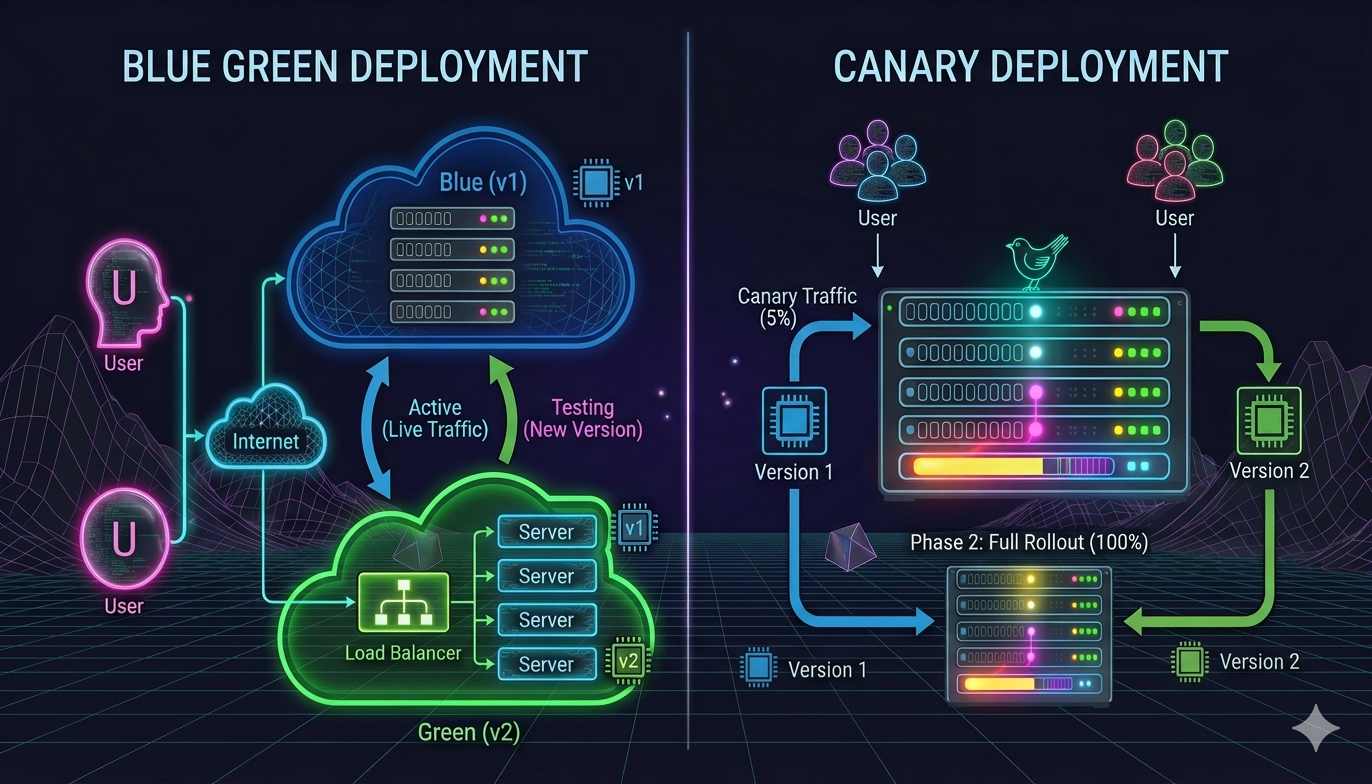
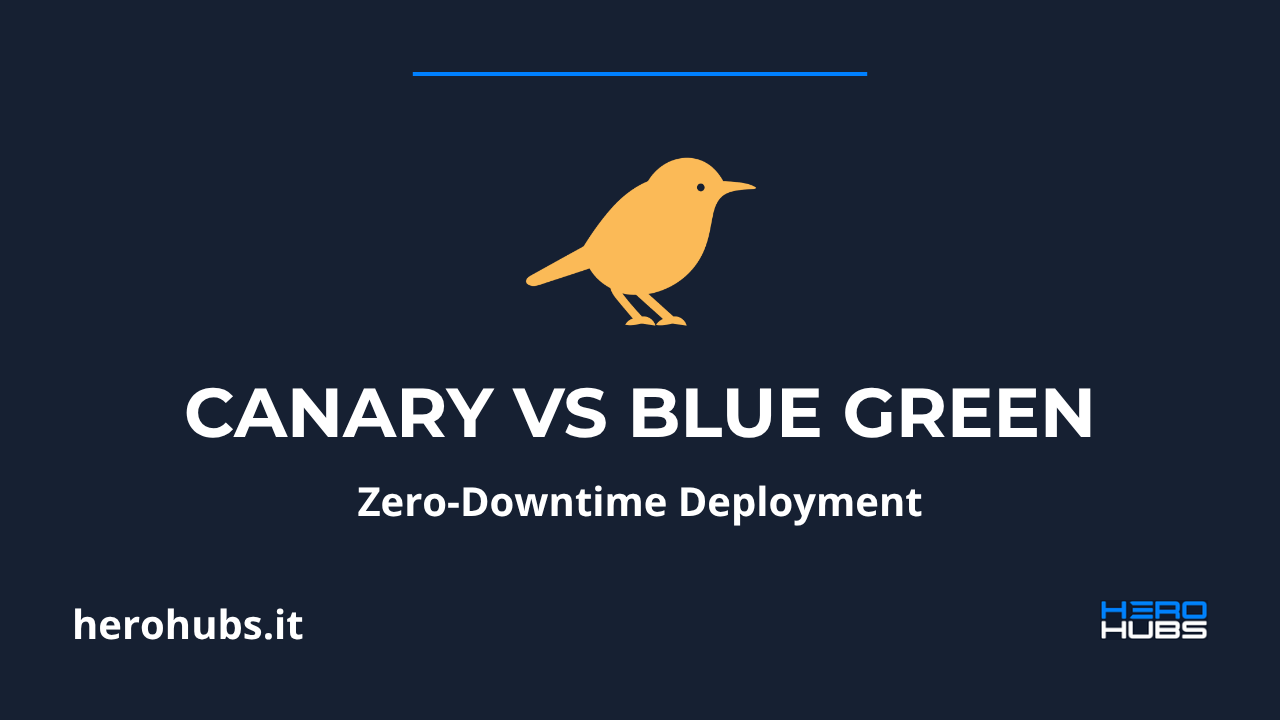
chore: regenerate hero images for articles 11-44
Replace jpg covers with png exports from the updated Canva designs
for articles 11-41, 43 and 44, and update the image path in both
it and en frontmatter.

diff --git a/src/content/posts/en/11.md b/src/content/posts/en/11.md
@@ -3,7 +3,7 @@ title: 'Successfully managing a software project'
 meta_title: 'Successfully managing a software project'
 description: 'A practical guide to effective software project management: planning, milestones, execution, and tips to avoid common mistakes and achieve project success.'
 date: 2025-03-13T05:00:00Z
-image: /images/posts/post-11.jpg
+image: /images/posts/post-11.png
 categories:
   - Projects
 draft: false

diff --git a/src/content/posts/en/12.md b/src/content/posts/en/12.md
@@ -3,7 +3,7 @@ title: 'Why trunk-based development dominates Git?'
 meta_title: 'Why trunk-based development dominates Git?'
 description: 'Discover why trunk-based development is the preferred Git branching strategy: benefits, comparison with GitFlow and GitHub Flow, and how it supports DevOps, CI/CD, and fast releases while maintaining code quality.'
 date: 2025-04-13T05:00:00Z
-image: /images/posts/post-12.jpg
+image: /images/posts/post-12.png
 categories:
   - Development
 draft: false

diff --git a/src/content/posts/en/13.md b/src/content/posts/en/13.md
@@ -3,7 +3,7 @@ title: 'The importance of soft skills'
 meta_title: 'The importance of soft skills'
 description: 'Learn why soft skills are essential in tech: communication, collaboration, problem solving, and adaptability for successful teams and professional growth.'
 date: 2025-04-13T05:00:00Z
-image: /images/posts/post-13.jpg
+image: /images/posts/post-13.png
 categories:
   - Projects
 draft: false

diff --git a/src/content/posts/en/14.md b/src/content/posts/en/14.md
@@ -3,7 +3,7 @@ title: 'Effective meetings: how to make them really work'
 meta_title: 'Effective meetings: how to make them really work'
 description: 'Discover how to organize truly effective meetings: strategies, practical tips, and best practices for productive, engaging, and results-oriented meetings in modern teams.'
 date: 2025-04-13T05:00:00Z
-image: /images/posts/post-14.jpg
+image: /images/posts/post-14.png
 categories:
   - Projects
 draft: false

diff --git a/src/content/posts/en/15.md b/src/content/posts/en/15.md
@@ -3,7 +3,7 @@ title: 'The project management triangle'
 meta_title: 'The project management triangle'
 description: 'Understand the project management triangle: how to balance scope, time, quality, and cost in complex projects. Strategies, trade-offs, and tips for effective project delivery.'
 date: 2025-04-13T05:00:00Z
-image: /images/posts/post-15.jpg
+image: /images/posts/post-15.png
 categories:
   - Projects
 draft: false

diff --git a/src/content/posts/en/16.md b/src/content/posts/en/16.md
@@ -3,7 +3,7 @@ title: 'Software architecture: which one to use?'
 meta_title: 'Software architecture: which one to use?'
 description: 'A guide to major software architectures: advantages, disadvantages, and use cases for client-server, layered, microservices, event-driven, serverless, and more for modern projects.'
 date: 2025-05-13T05:00:00Z
-image: /images/posts/post-16.jpg
+image: /images/posts/post-16.png
 categories:
   - Architecture
 draft: false

diff --git a/src/content/posts/en/17.md b/src/content/posts/en/17.md
@@ -3,7 +3,7 @@ title: 'Data, decisions, and directions: the role of the data professional'
 meta_title: 'Data, decisions, and directions: the role of the data professional'
 description: 'Discover how data engineers and analysts create real value: strategies, tips, and best practices to turn data into decisions and competitive advantage.'
 date: 2025-05-13T05:00:00Z
-image: /images/posts/post-17.jpg
+image: /images/posts/post-17.png
 categories:
   - Development
 draft: false

diff --git a/src/content/posts/en/18.md b/src/content/posts/en/18.md
@@ -3,7 +3,7 @@ title: 'Waterfall vs Agile: two approaches compared in software development'
 meta_title: 'Waterfall vs Agile: two approaches compared in software development'
 description: 'Waterfall vs Agile: differences, pros, cons, and when to choose each for effective software project management.'
 date: 2025-05-13T05:00:00Z
-image: /images/posts/post-18.jpg
+image: /images/posts/post-18.png
 categories:
   - Projects
 draft: false

diff --git a/src/content/posts/en/19.md b/src/content/posts/en/19.md
@@ -3,7 +3,7 @@ title: 'Will ChatGPT (and others) really replace developers?'
 meta_title: 'Will ChatGPT (and others) really replace developers?'
 description: 'A critical analysis of ChatGPT and generative AI: can they really replace programmers? Limits, opportunities, and the future of software development work.'
 date: 2025-05-13T05:00:00Z
-image: /images/posts/post-19.jpg
+image: /images/posts/post-19.png
 categories:
   - AI
 draft: false

diff --git a/src/content/posts/en/20.md b/src/content/posts/en/20.md
@@ -3,7 +3,7 @@ title: 'Firebase real-time database: the right choice for real-time applications
 meta_title: 'Firebase real-time database: the right choice for real-time applications?'
 description: 'Explore the pros, cons, and alternatives of Firebase real-time database: a complete guide to choosing the best solution for real-time apps and platforms.'
 date: 2025-06-13T05:00:00Z
-image: /images/posts/post-20.jpg
+image: /images/posts/post-20.png
 categories:
   - Architecture
 draft: false

diff --git a/src/content/posts/en/21.md b/src/content/posts/en/21.md
@@ -3,7 +3,7 @@ title: 'LinkedIn and Apache Kafka: 7 trillion messages a day'
 meta_title: 'LinkedIn and Apache Kafka: 7 trillion messages a day'
 description: 'Discover how LinkedIn uses Apache Kafka to process 7 trillion messages daily: architecture, scalability, open-source innovations, and best practices for real-time big data.'
 date: 2025-06-13T05:00:00Z
-image: /images/posts/post-21.jpg
+image: /images/posts/post-21.png
 categories:
   - Architecture
 draft: false

diff --git a/src/content/posts/en/22.md b/src/content/posts/en/22.md
@@ -3,7 +3,7 @@ title: 'Why choose a standing desk?'
 meta_title: 'Why choose a standing desk?'
 description: 'Explore the benefits of standing desks: health, productivity, ergonomics, and practical tips to improve well-being for developers and digital professionals.'
 date: 2025-06-13T05:00:00Z
-image: /images/posts/post-22.jpg
+image: /images/posts/post-22.png
 categories:
   - Development
 draft: false